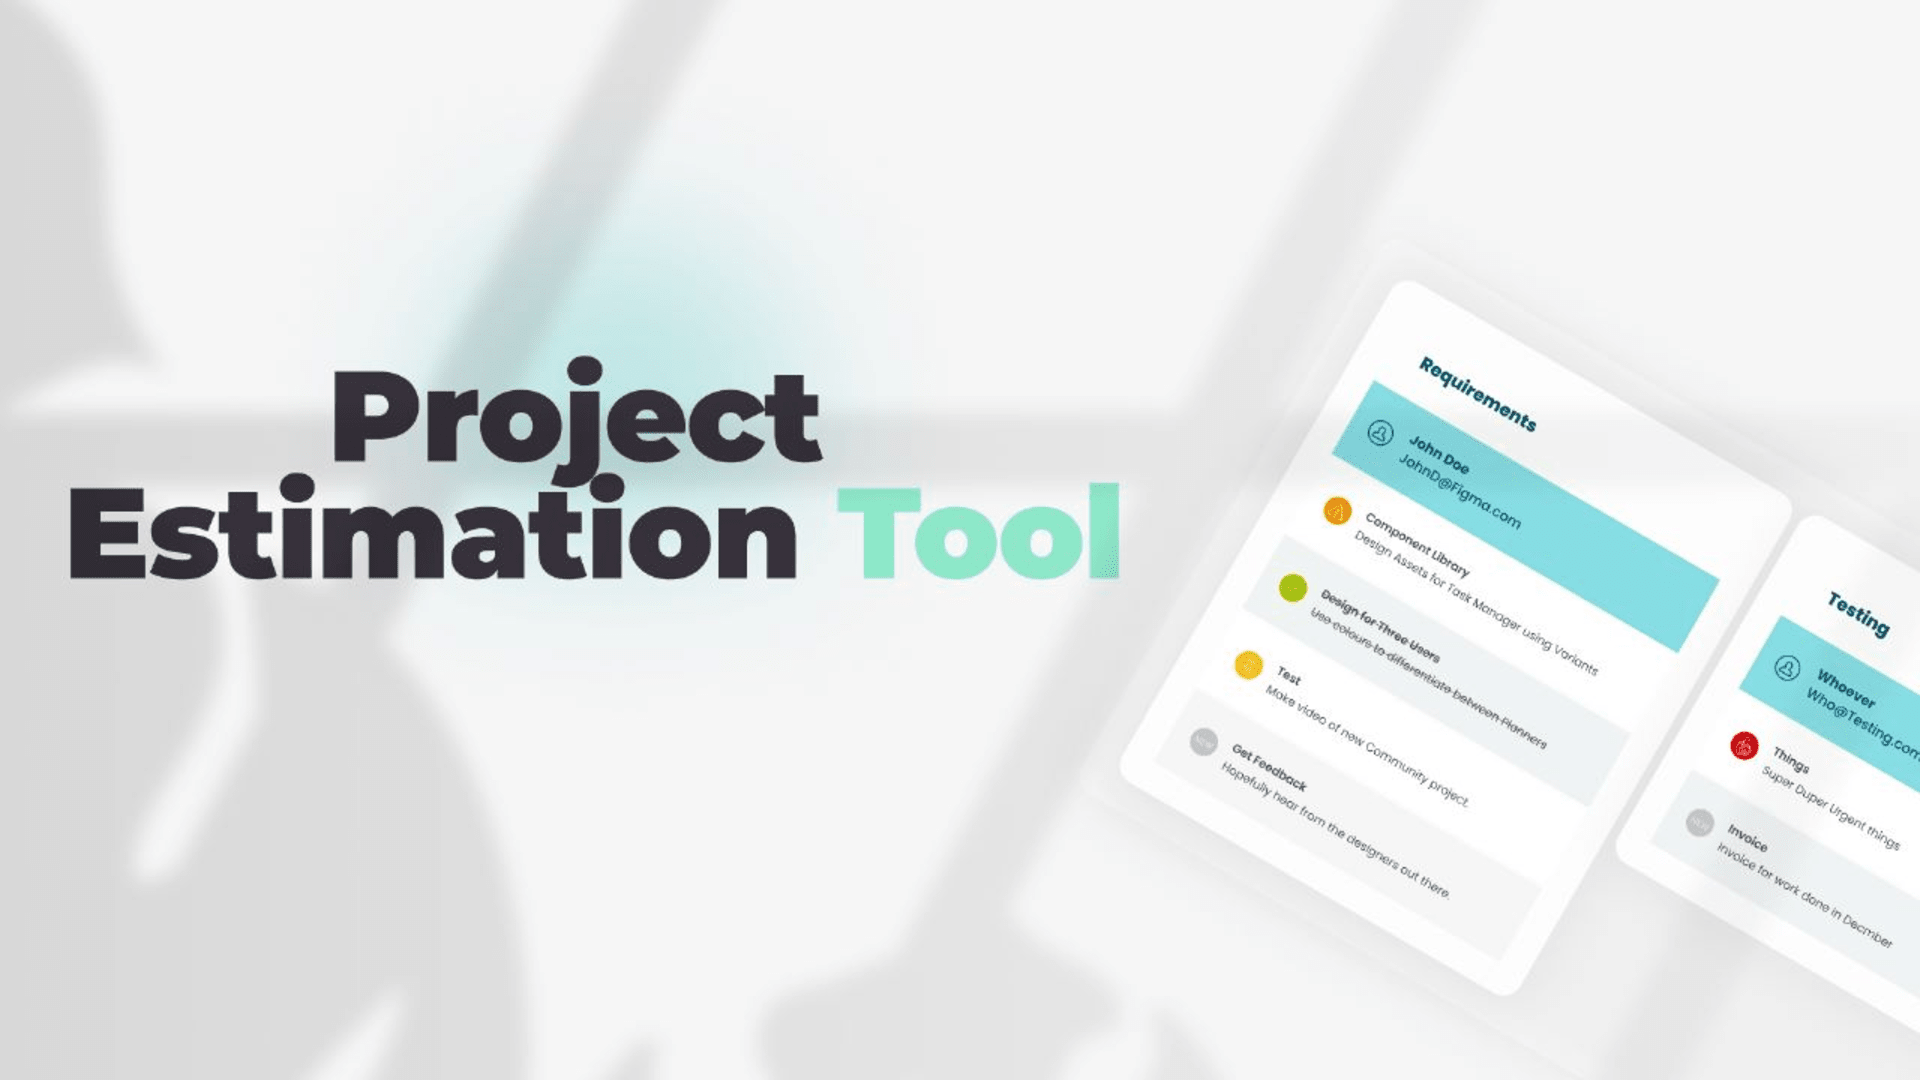
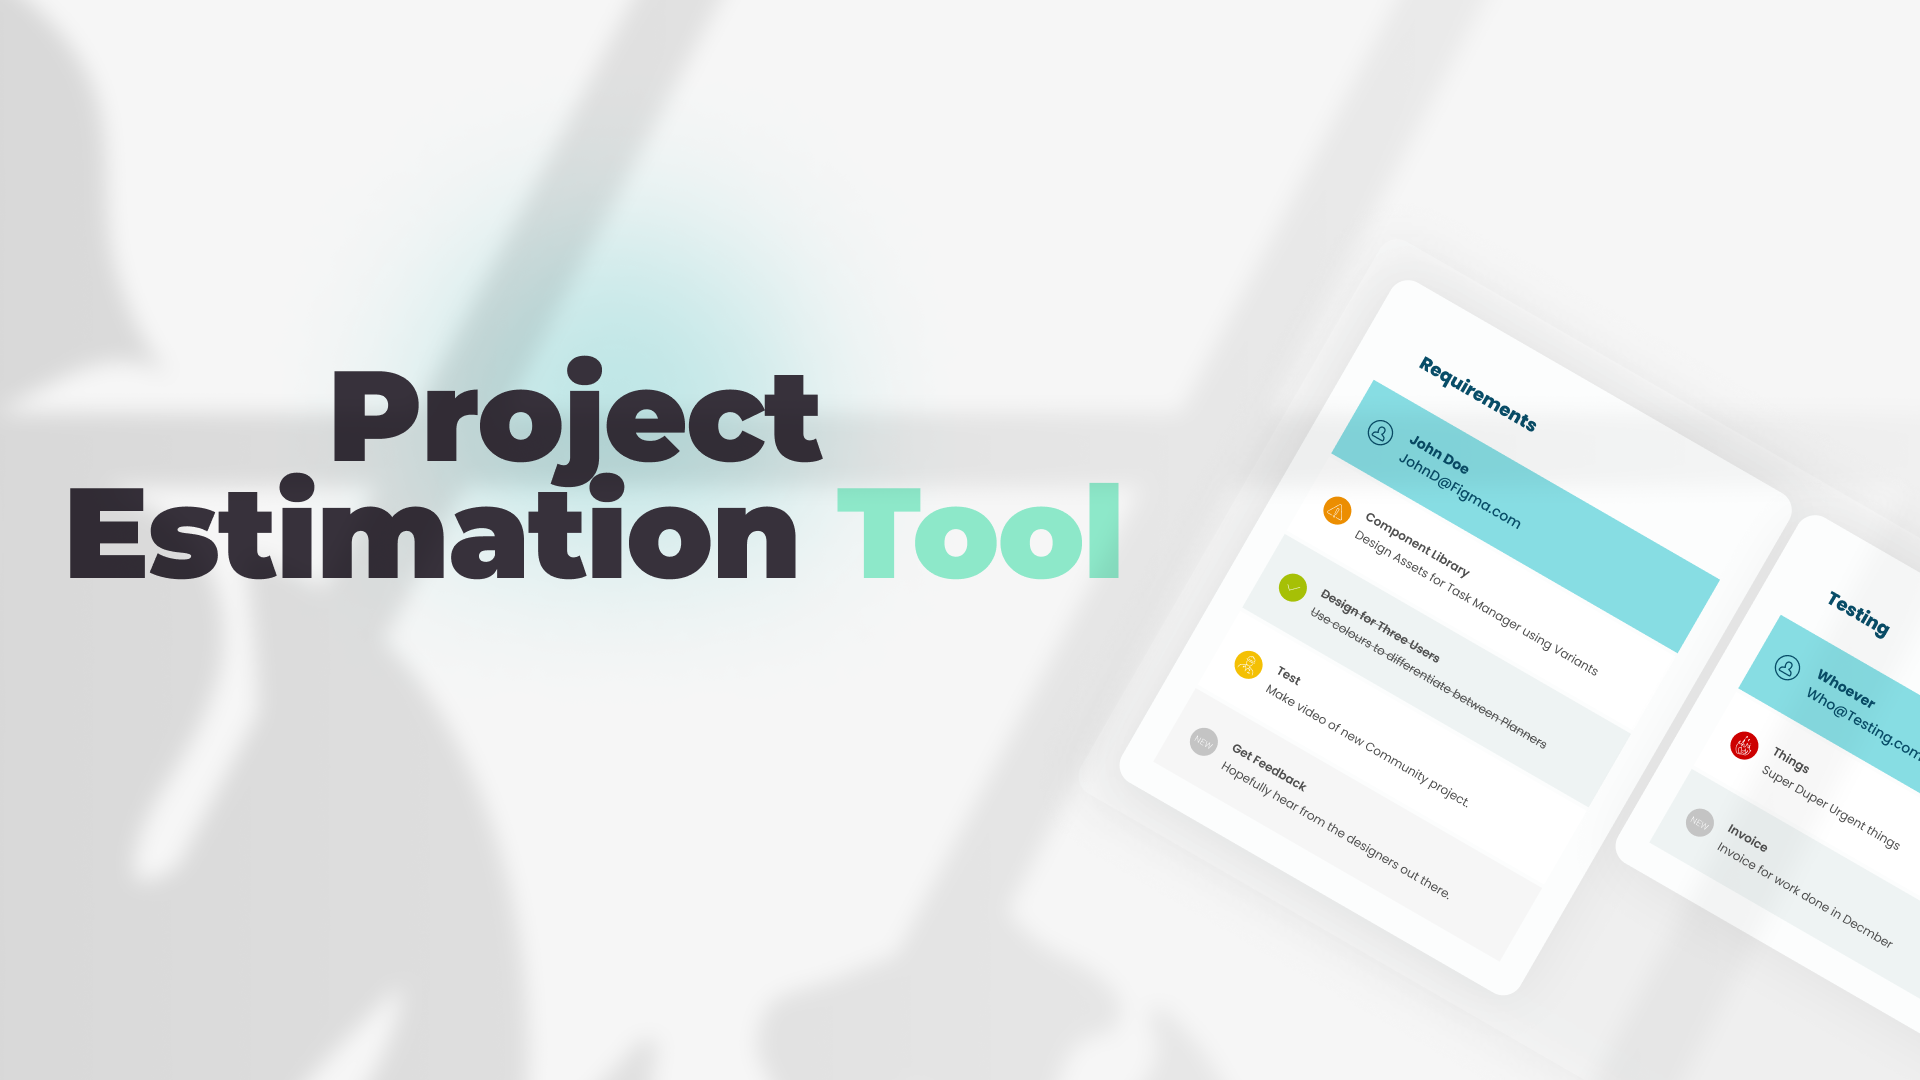
Fixed landing page + added API calls in frontend

diff --git a/sp_estimation_ai_client/src/components/Sidebar/EstimationReviewerSidebar.js b/sp_estimation_ai_client/src/components/Sidebar/EstimationReviewerSidebar.js
@@ -58,6 +58,8 @@ export default function EstimationReviewerSidebar() {
       <Divider sx={{ my: 1 }} />
       <Typography sx={{ marginLeft: "5%", textTransform: "uppercase" }}
                   variant={"body2"}>Estimators</Typography>
+
+      {/*TODO: Add API call to get all estimates of estimator*/}
       <Link to="">
         <ListItemButton>
           <ListItemIcon>
@@ -78,6 +80,8 @@ export default function EstimationReviewerSidebar() {
       <Divider sx={{ my: 1 }} />
       <Typography sx={{ marginLeft: "5%", textTransform: "uppercase" }}
                   variant={"body2"}>Projects</Typography>
+
+      {/*TODO: Add API call to get all estimates of project*/}
       <Link to="">
         <ListItemButton>
           <ListItemIcon>

diff --git a/sp_estimation_ai_client/src/service/reviewer.service.js b/sp_estimation_ai_client/src/service/reviewer.service.js
@@ -73,7 +73,19 @@ class ReviewerDataService {
   }
 
   getUsers(){
-    return http.get("/users")
+    return http.get("/users");
+  }
+
+  getEstimatorEstimates(estimator_username) {
+    return http.get("/reviewer/get-estimator-estimates", {
+      estimator_username: estimator_username
+    });
+  }
+
+  getProjectEstimates(project_name){
+    return http.get("/reviewer/get-project-estimates", {
+      project_name: project_name
+    });
   }
 
 }

diff --git a/sp_estimation_ai_client/src/components/LandingPage.js b/sp_estimation_ai_client/src/components/LandingPage.js
@@ -4,7 +4,9 @@ import React from 'react';
 
 const styles = {
     paperContainer: {
-        backgroundImage: `url(${logo})`
+        backgroundImage: `url(${logo})`,
+        backgroundSize: "cover",
+        backgroundRepeat: "no-repeat",
     }
 };
 
